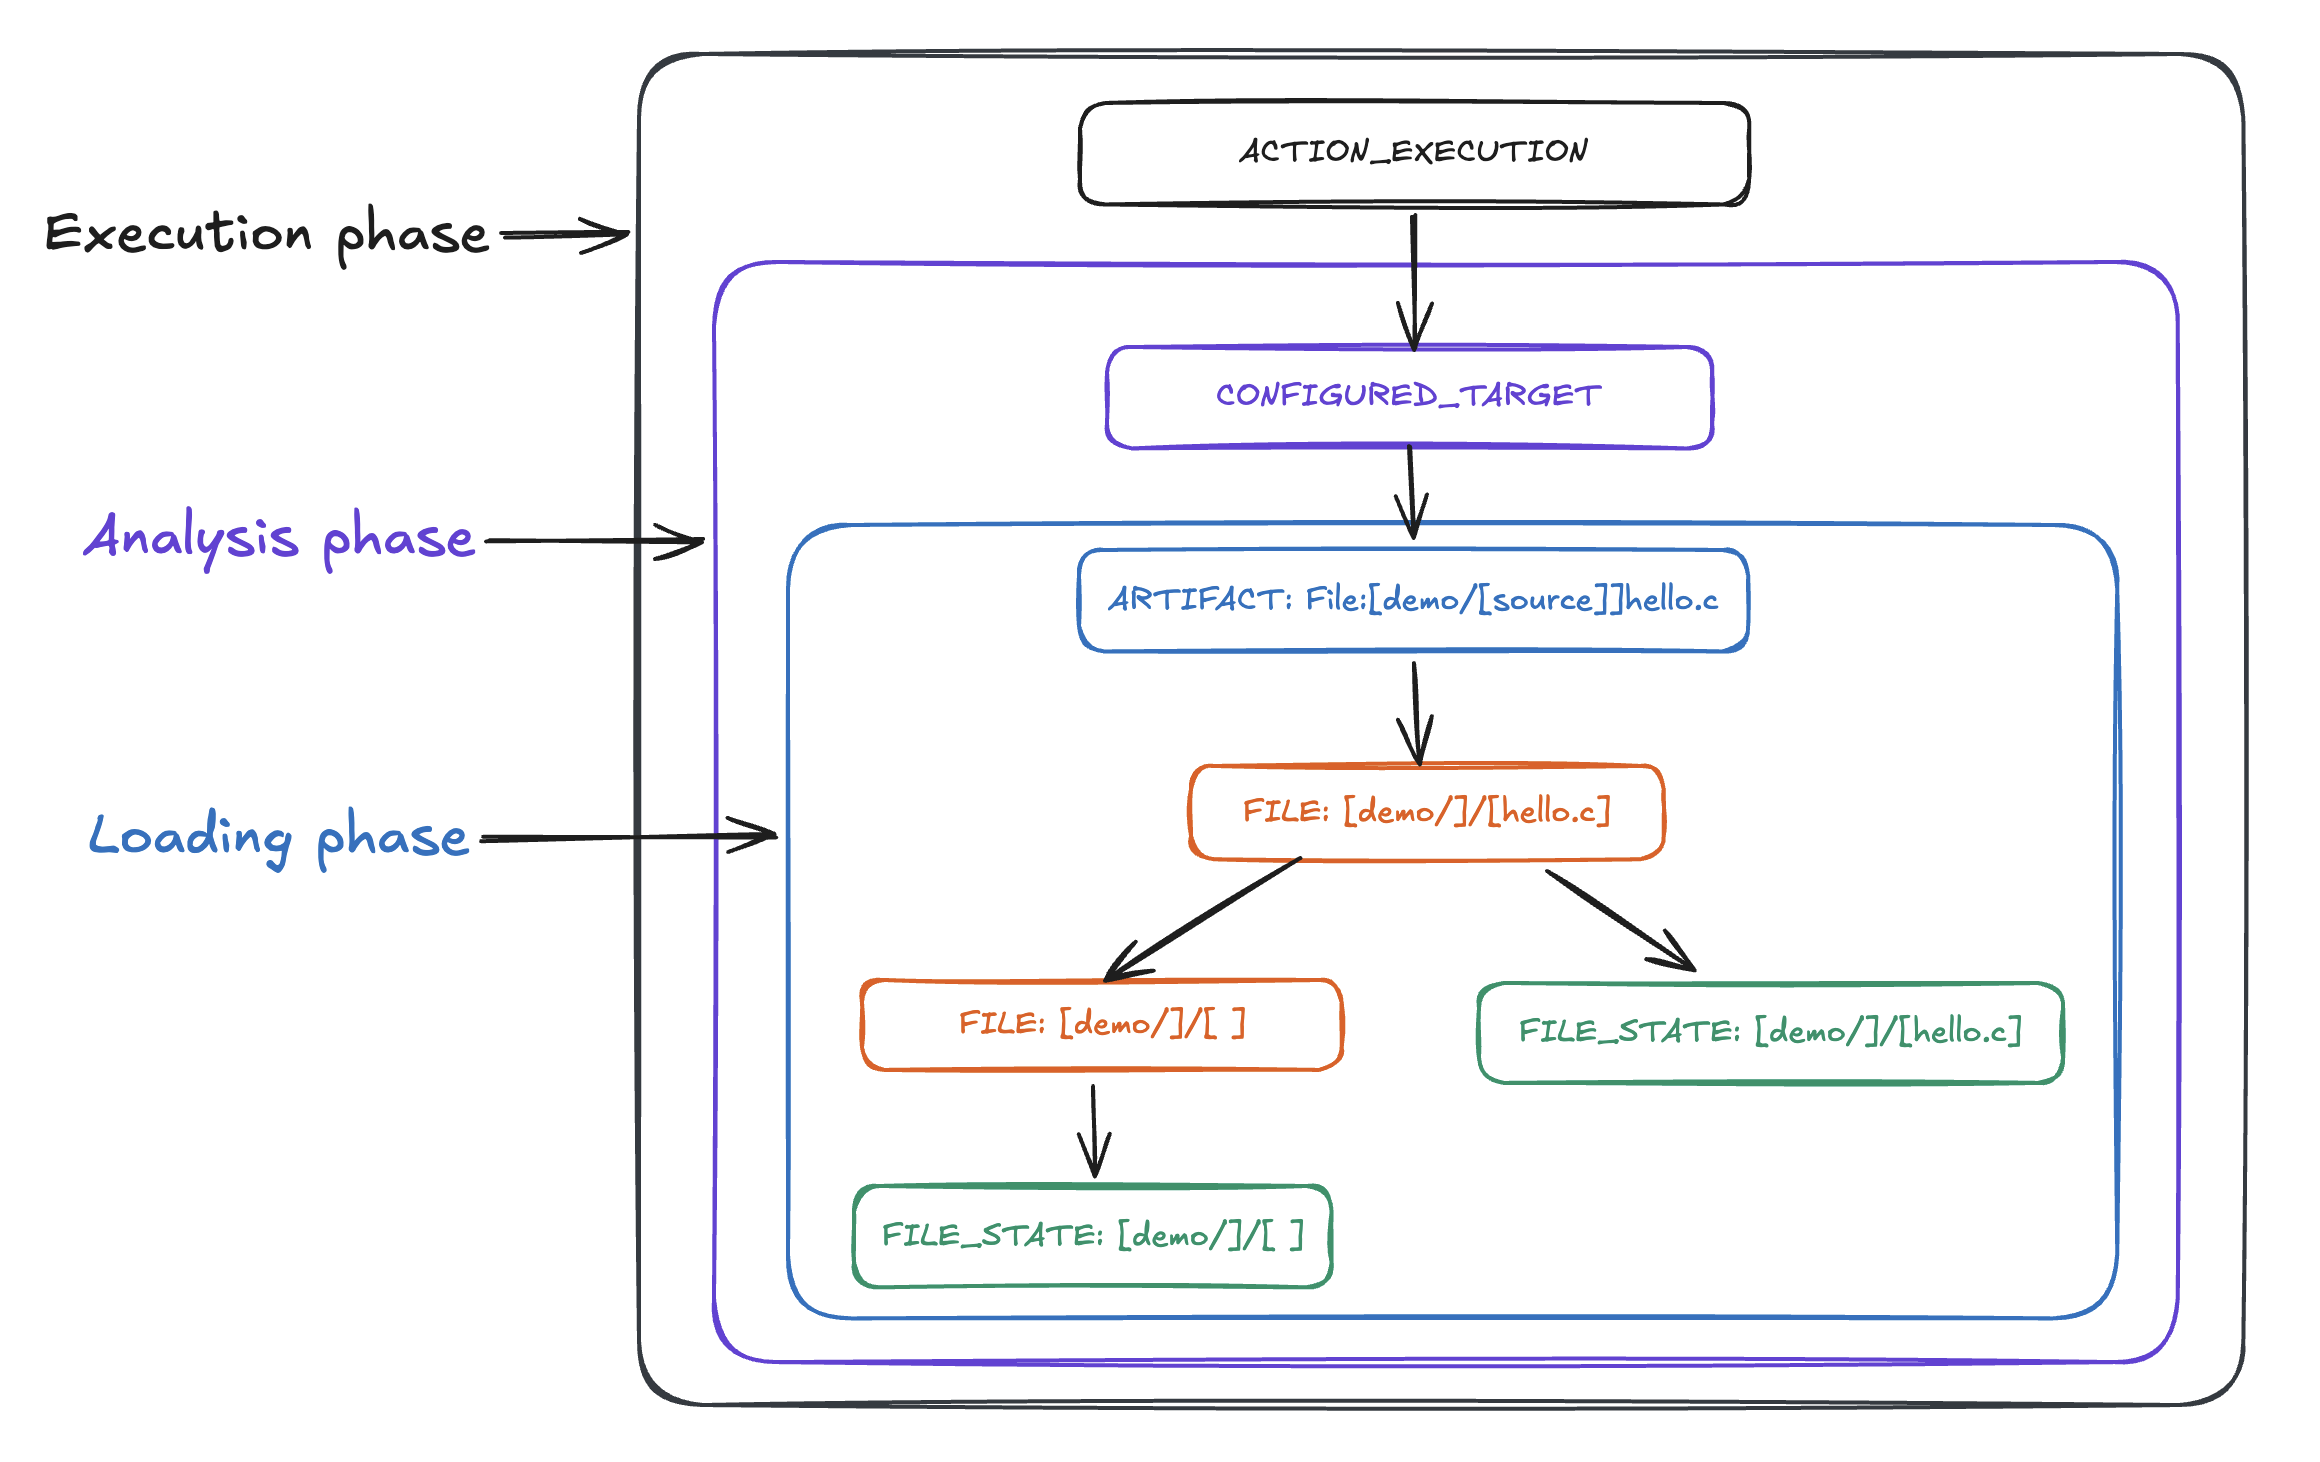
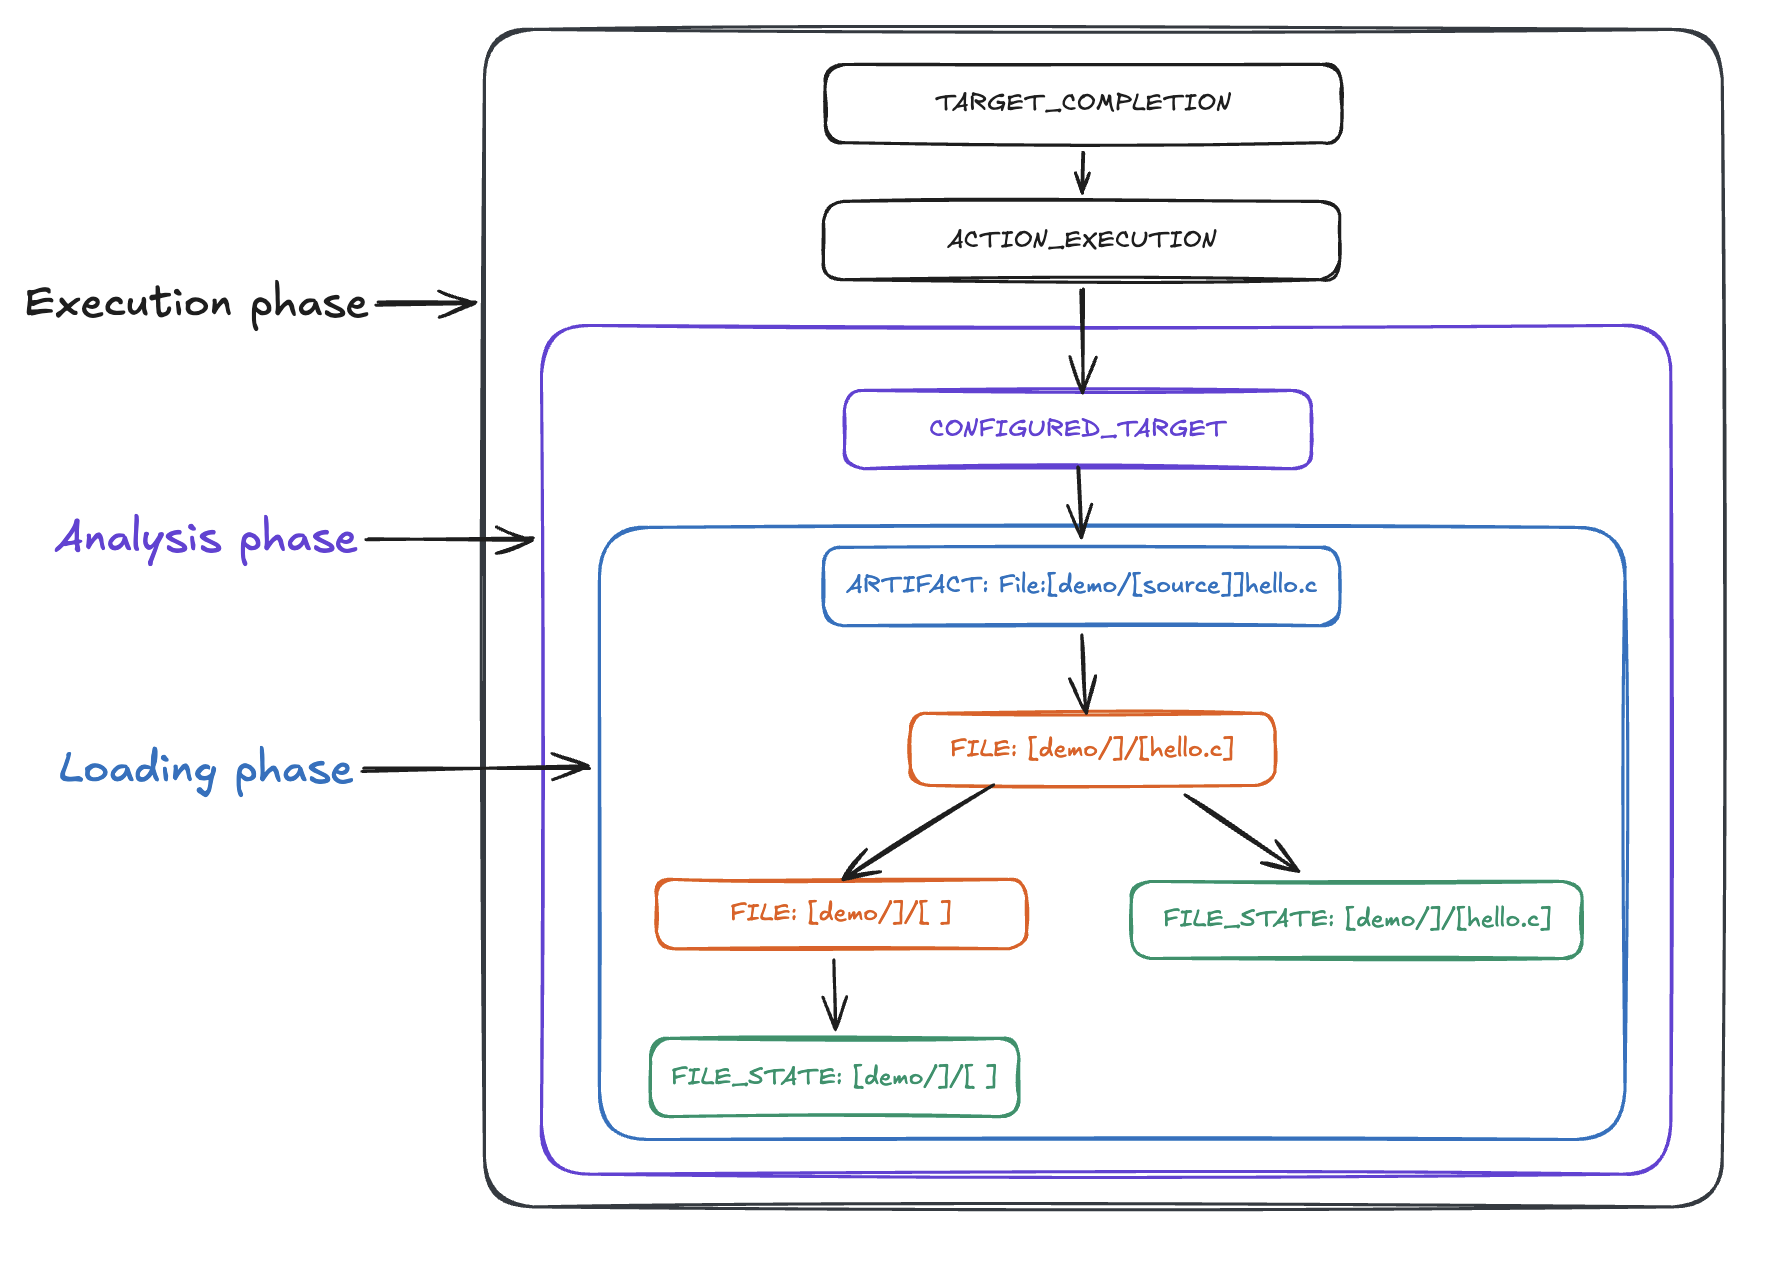
Update

Changed region(s): [[0.0, 0.0, 0.9877, 0.9858], [0.9259, 0.1848, 0.9568, 0.2156]]

diff --git a/content/blog/2026-05-06-bazel-skyframe.md b/content/blog/2026-05-06-bazel-skyframe.md
@@ -172,14 +172,14 @@ This evaluation model also explains why the action count in the CLI grows from 1
 
 ## Caching
 
-Because SkyKey is immutable and available globally in the graph, the same computation only executes once. In our sub-graph, the `FILE:demo/` node (which represents a directory) has two incoming edges. Once its computation is done, parent nodes reuse the same SkyValue result.
+Because SkyKey is immutable and available globally in the graph, the same computation only executes once. In the following sub-graph, the `FILE:demo/` node (which represents a directory) has two incoming edges. Once its computation is done, parent nodes reuse the same SkyValue result.
 
 ![Skyframe caching](/images/2026-05-06-bazel-skyframe/caching.png)
 
 As mentioned earlier, each of Bazel's execution phases has a corresponding SkyFunction:
 - Loading: [TargetPatternPhaseFunction](https://cs.opensource.google/bazel/bazel/+/master:src/main/java/com/google/devtools/build/lib/skyframe/TargetPatternPhaseFunction.java)
 - Analysis: [ConfiguredTargetFunction](https://cs.opensource.google/bazel/bazel/+/master:src/main/java/com/google/devtools/build/lib/skyframe/ConfiguredTargetFunction.java;l=122?q=ConfiguredTargetFunction&ss=bazel%2Fbazel)
-- Execution: [ActionExecutionFunction](https://cs.opensource.google/bazel/bazel/+/master:src/main/java/com/google/devtools/build/lib/skyframe/ActionExecutionFunction.java;l=137?q=ActionExecutionFunction&ss=bazel%2Fbazel) / [TargetCompletionFunction](https://cs.opensource.google/bazel/bazel/+/master:src/main/java/com/google/devtools/build/lib/skyframe/TargetCompletor.java;l=44?q=TargetCompletionFunction&ss=bazel%2Fbazel)
+- Execution: [TargetCompletionFunction](https://cs.opensource.google/bazel/bazel/+/master:src/main/java/com/google/devtools/build/lib/skyframe/TargetCompletor.java;l=44?q=TargetCompletionFunction&ss=bazel%2Fbazel)
 
 Each phase builds on top of the previous phase's Skyframe nodes. Because they share the same global graph, the cache is reused across phases as well (e.g. reading `hello.c` from the filesystem only once). Here's a simplified version of how each phase might create different Skyframe nodes:
 

diff --git a/content/blog/2026-04-10-cypress.md b/content/blog/2026-04-10-cypress.md
@@ -1,7 +1,7 @@
 +++
 date = '2026-04-10'
 draft = false
-title = 'Cypress vs Playwright: Architecture Deep Dive'
+title = 'Cypress vs Playwright: Architecture deep dive'
 slug = 'cypress-vs-playwright'
 description = "A deep dive into the internal architectures of Cypress and Playwright — how each intercepts browser traffic, runs tests, and compares on performance and flakiness."
 +++